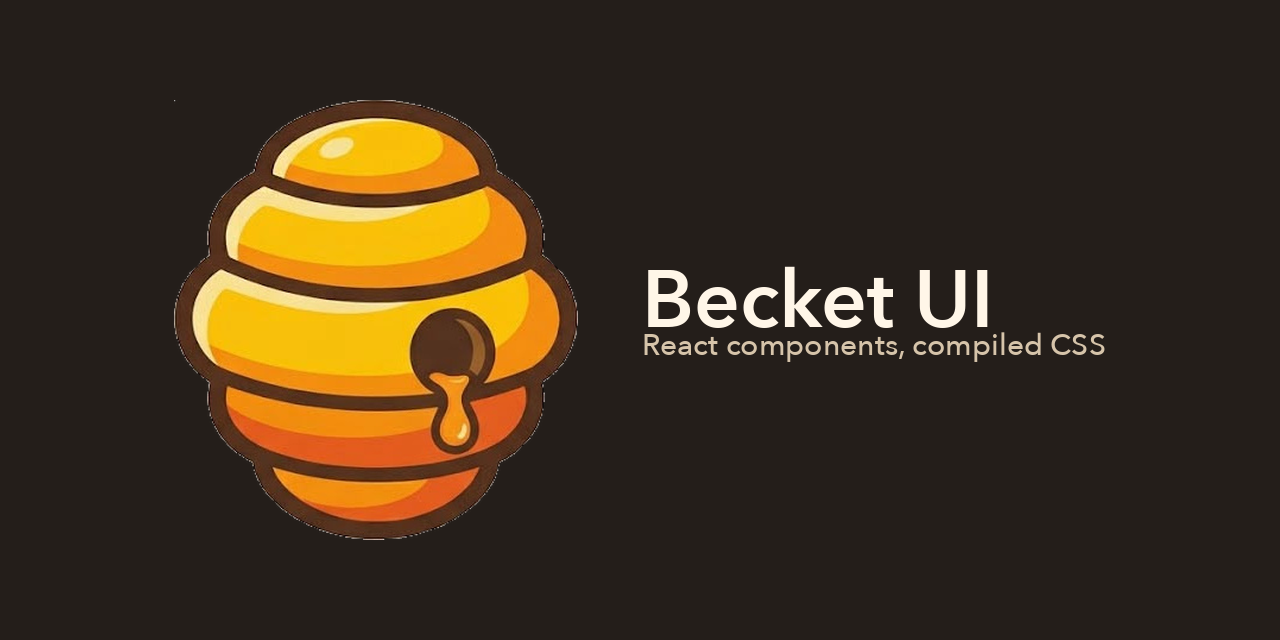
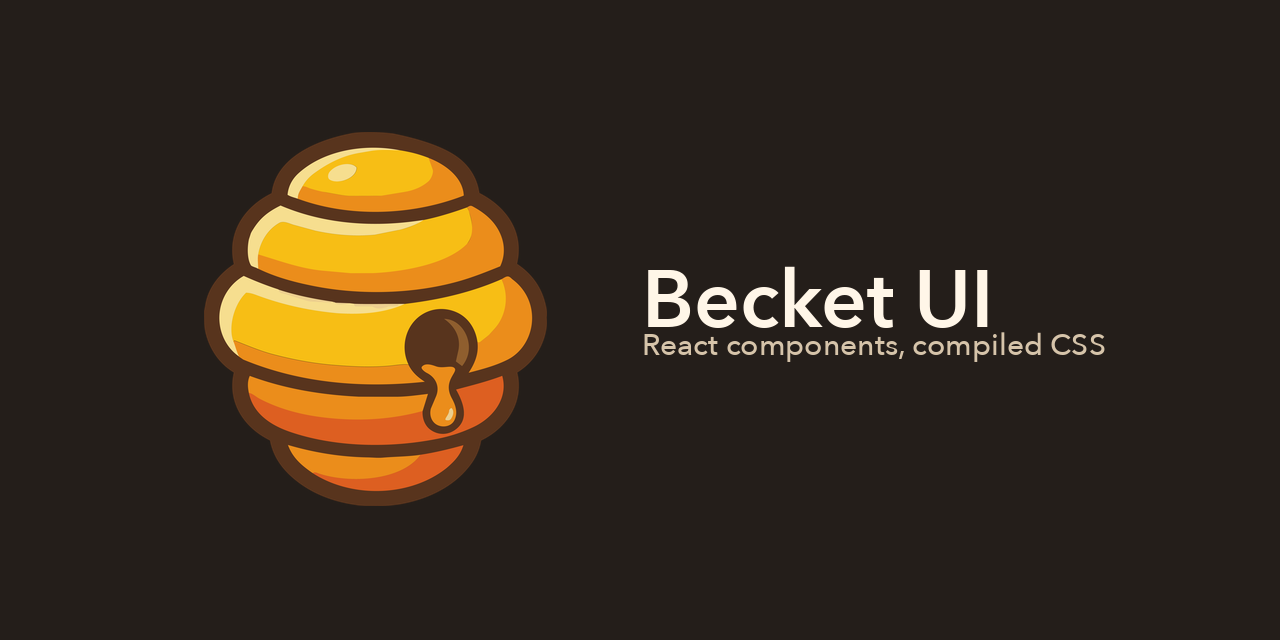
Show the Becket wordmark and tagline at the top of the README.

Changed region(s): [[0.125, 0.1562, 0.4688, 0.8438]]

diff --git a/README.md b/README.md
@@ -1,8 +1,8 @@
 <p align="center">
-  <img src="./logo.png" alt="Becket UI" width="340" />
+  <img src="./apps/docs/public/wordmark.png" alt="Becket" width="300" />
 </p>
 
-# Becket UI
+<h1 align="center">React components, compiled CSS</h1>
 
 Chakra-shaped React components whose styles are **compiled CSS**, not a CSS-in-JS runtime. Install
 two packages, import one stylesheet, set `data-theme`, start building.
